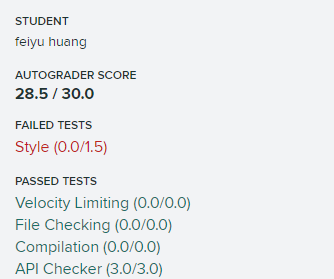
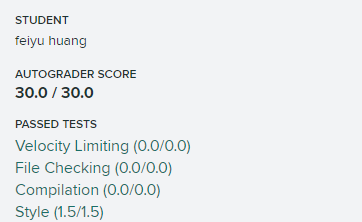
update `README` for proj1

diff --git a/README.md b/README.md
@@ -15,6 +15,7 @@
     * [lab3](./lab3): Unit Testing with JUnit, Debugging
 * proj
     * [proj0](./proj0): have done Nothing here
+    * [proj1](./proj1): 
 
 ## Scores
 
@@ -38,7 +39,10 @@
 
 * proj1b
 
-I fixed the issue, it would get a full score in the end.
-
 ![proj1b](./img/proj1b.png)
+
+* proj1c
+
+![proj1c](./img/proj1c.png)
+
 
